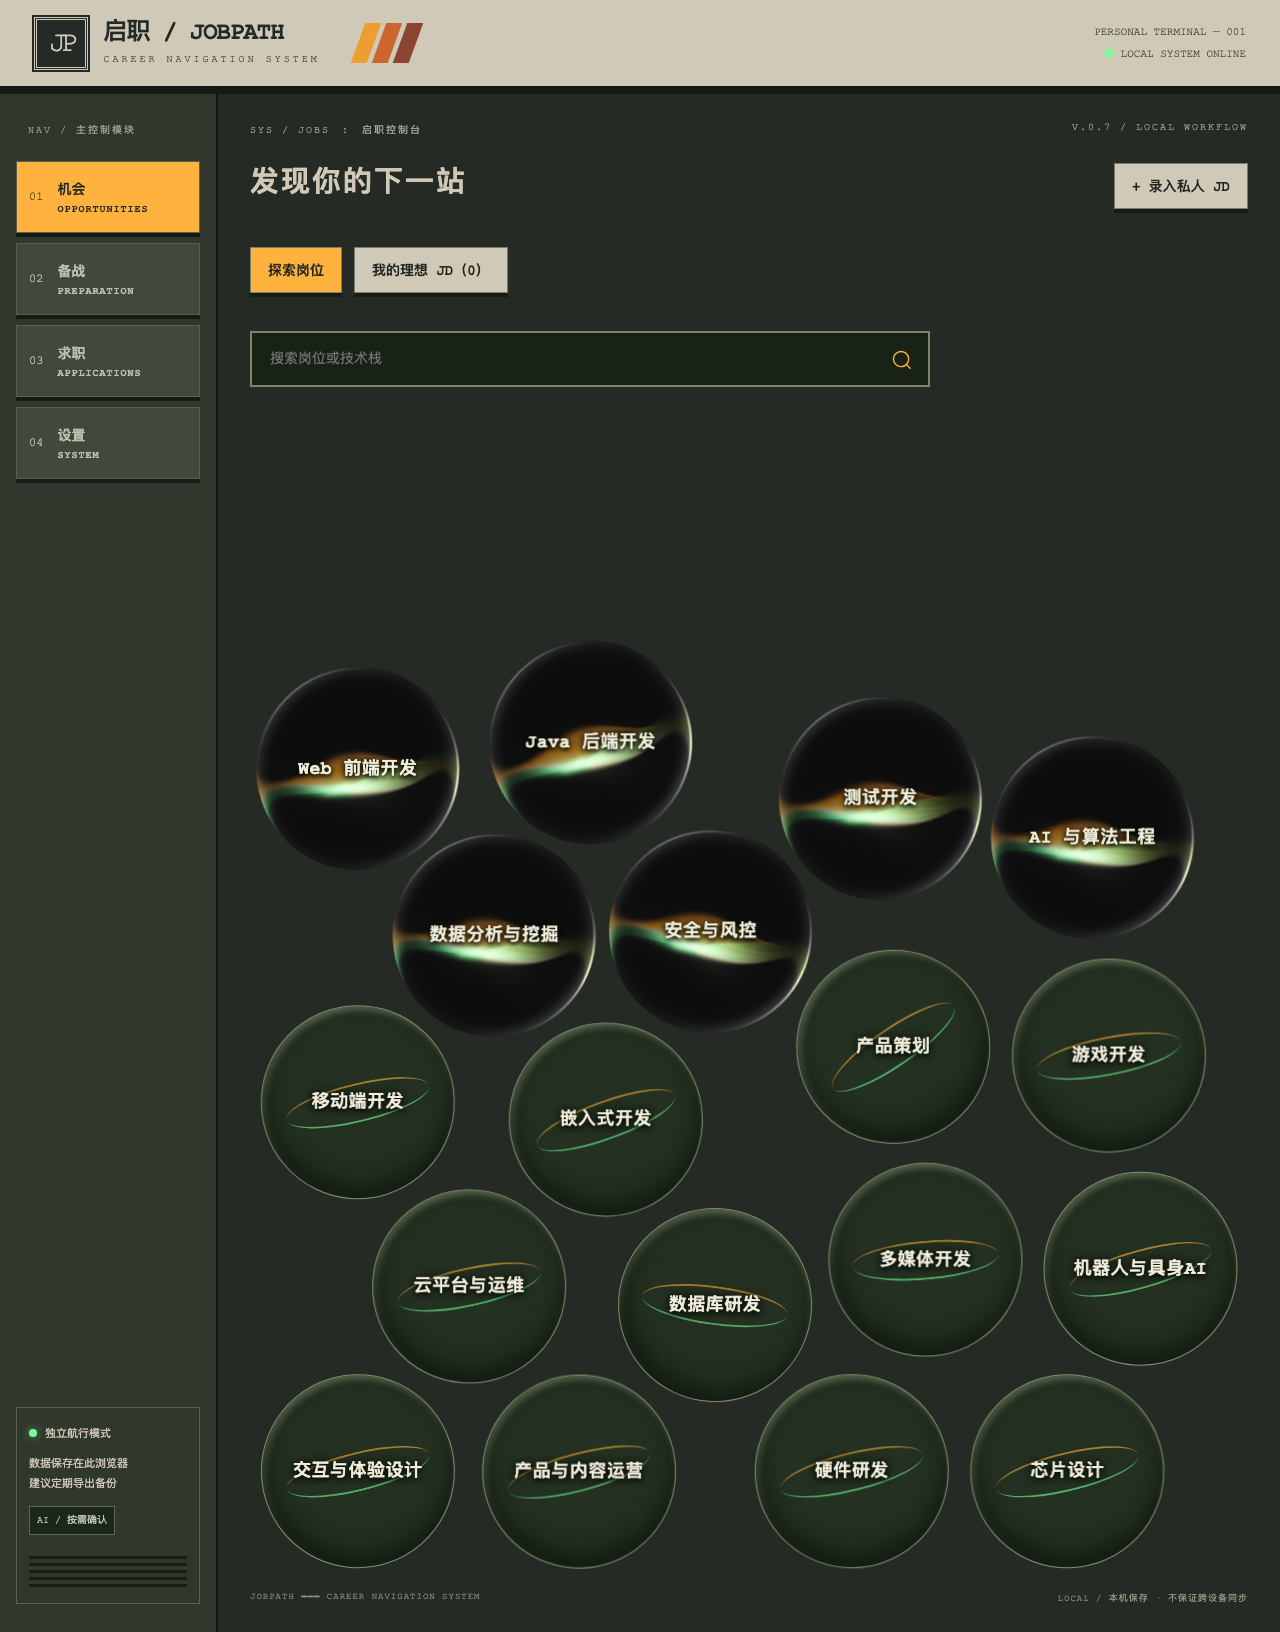
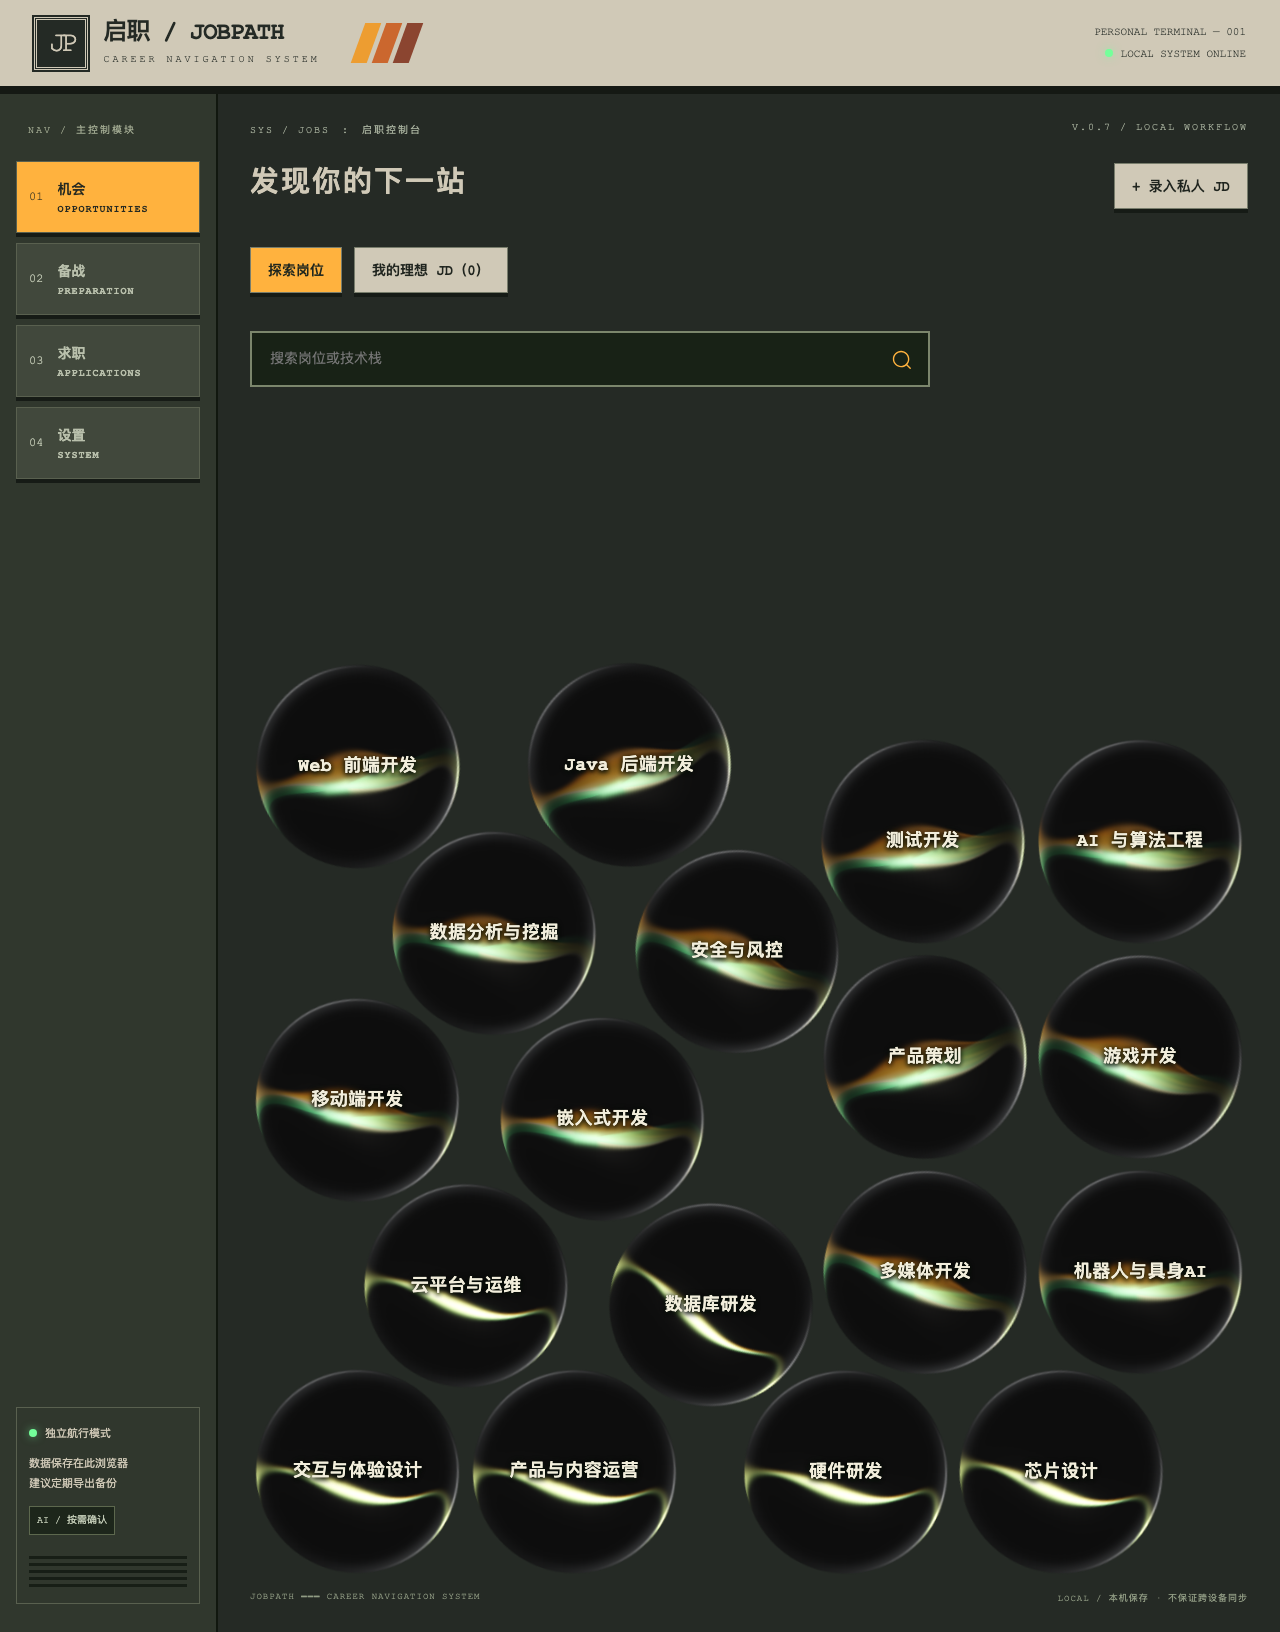
Unify all category sphere visuals with a shared Strands renderer

Changed region(s): [[0.1875, 0.375, 0.9688, 0.9688], [0.2188, 0.4375, 0.3438, 0.5]]

diff --git a/src/strands-still.js b/src/strands-still.js
@@ -1,0 +1,2 @@
+// Static frame captured from the same Strands renderer for reduced-motion and WebGL fallback.
[1 lines of base64/hex data omitted]

diff --git a/src/app.js b/src/app.js
@@ -92,7 +92,7 @@ function bindOpportunities(){
  $('#category-search').oninput=()=>{const matches=searchCategories($('#category-search').value);document.querySelectorAll('[data-category]').forEach(el=>el.hidden=!matches.some(c=>c.id===el.dataset.category));$('#category-count').textContent=`${matches.length} 个岗位分类`;$('#category-empty').hidden=matches.length>0;};
  document.querySelectorAll('[data-category-open]').forEach(b=>b.onclick=()=>openCategory(b.dataset.categoryOpen));if(jobsView==='categories')mountCrystal();if(jobsView==='list'&&activeCategory)openCategory(activeCategory);if(lastSavedJob){const el=document.getElementById('saved-'+lastSavedJob);el?.focus({preventScroll:true});el?.scrollIntoView({block:'center'});lastSavedJob='';}
 }
-async function mountCrystal(){const hosts=[...document.querySelectorAll('[data-crystal-host]')],generation=++crystalGeneration;if(jobsView!=='categories')return;crystalCleanup();crystalCleanup=()=>{};try{const module=await import('/public/visuals/strands.js');if(generation!==crystalGeneration||jobsView!=='categories')return;const motionCleanup=module.bindBubbleField(document.querySelector('.bubble-field'));const mounted=new Map();const observer=new IntersectionObserver(entries=>{for(const entry of entries){const host=entry.target;if(entry.isIntersecting&&!mounted.has(host)&&mounted.size<12){mounted.set(host,module.mount(host));}else if(!entry.isIntersecting&&mounted.has(host)){mounted.get(host)();mounted.delete(host);}}});hosts.forEach(h=>observer.observe(h));crystalCleanup=()=>{motionCleanup();observer.disconnect();mounted.forEach(fn=>fn());mounted.clear()}}catch{}}
+async function mountCrystal(){const hosts=[...document.querySelectorAll('[data-crystal-host]')],generation=++crystalGeneration;if(jobsView!=='categories')return;crystalCleanup();crystalCleanup=()=>{};try{const module=await import('/public/visuals/strands.js');if(generation!==crystalGeneration||jobsView!=='categories')return;const motionCleanup=module.bindBubbleField(document.querySelector('.bubble-field'));const visualCleanup=module.mountField(hosts);crystalCleanup=()=>{motionCleanup();visualCleanup()}}catch{}}
 
 function openCategory(id){const category=categories.find(c=>c.id===id);if(!category)return;activeCategory=id;jobsView='list';crystalGeneration++;crystalCleanup();crystalCleanup=()=>{};$('#category-view').hidden=true;$('#saved-jd-view').hidden=true;document.querySelectorAll('[data-job-view]').forEach(b=>b.setAttribute('aria-pressed','false'));const box=$('#category-jobs-view');box.hidden=false;box.innerHTML=`<button id="back-categories">← 返回岗位分类</button><h2 tabindex="-1">${category.title} · 公司招聘信息</h2><section class="category-detail"><p>${category.description}</p><h3>技术与能力方向</h3><p>${category.focus.join(' / ')}</p><p>${category.keywords.join(' · ')}</p>${skills[id]?`<button data-detail-direction="${id}">${state.direction===id?'当前方向':'选择此备战方向'} →</button>`:''}</section><p class="recruit-sync">后台每日 09:00（北京时间）更新；官网可能限制采集。<span id="sync-state">${recruitmentSync?`最近任务：${esc(recruitmentSync.day)} · ${{complete:'已完成',partial:'部分来源待复核',failed:'更新失败，保留旧记录',running:'更新中'}[recruitmentSync.status]||'待复核'}`:'尚无后台定时任务记录，显示已核验快照'}</span></p><p>优先展示校招和实习；投递入口可用不代表一定符合资格，请以原站受理结果为准。</p><div class="filters"><label>搜索本分类招聘<input id="recruit-search" type="search" placeholder="公司、岗位、城市"></label><label>招聘类型<select id="recruit-type"><option value="early">校招与实习</option><option value="">全部</option><option>校招</option><option>实习</option><option>社招</option></select></label><label>招聘状态<select id="recruit-status"><option value="">可投或待核验</option><option value="open">官网可投</option><option value="unknown">待核验</option><option value="closed">已截止</option><option value="all">全部状态</option></select></label></div><div id="recruit-results"></div>`;
 const show=()=>{const q=$('#recruit-search').value.toLowerCase(),type=$('#recruit-type').value,status=$('#recruit-status').value,rows=jobsForCategory(id).filter(r=>[r.title,r.company,r.city].join(' ').toLowerCase().includes(q)&&(!type||(type==='early'?['校招','实习'].includes(r.intent):r.intent===type))&&(status==='all'||(status?(r.hiringStatus||'unknown')===status:r.hiringStatus!=='closed'))).sort((a,b)=>Number(b.hiringStatus==='open')-Number(a.hiringStatus==='open'));$('#recruit-results').innerHTML=rows.map(r=>{const company=companies[r.company];return panel('OFFICIAL SOURCE / 招聘记录',`<span class="recruit-status">${({open:'官网可投',closed:'已截止',unknown:'待核验'})[r.hiringStatus||'unknown']}</span><h3>${esc(r.company)} · ${esc(r.title)}</h3><p>${esc(r.city)} · ${esc(r.intent)}</p><h4>岗位介绍</h4><p>${esc(r.summary)}</p><h4>资格与技术要求</h4><p>${esc(r.experience||'请核对官网')}</p><p>${esc(r.eligibility)}</p><div class="company-info"><h4>招聘单位</h4><p>${esc(company?.intro||r.company+'官方招聘记录，单位介绍请查看原站。')}</p>${company?`<a href="${esc(company.url)}" target="_blank" rel="noopener noreferrer">${esc(r.company)}招聘官网 ↗</a>`:''}</div><p class="muted">核验时间：${esc(r.checkedAt)} · ${esc(r.verification)}<br>官网更新：${esc(r.sourceUpdated)} · 薪资与截止日期：以原站为准</p><a href="${esc(safeUrl(r.source))}" target="_blank" rel="noopener noreferrer">查看官方招聘详情 ↗</a> <button data-save-recruit="${esc(r.id)}">${state.jobs.some(j=>j.publicId===r.id)||(state.recruitmentSaves||[]).some(j=>j.id===r.id)?'已保存到理想 JD':'保存到我的理想 JD'}</button>`)}).join('')||'<p class="empty">没有匹配的招聘记录。可切换“全部”类型或放宽状态筛选；不会把社招伪装成应届生岗位。</p>';document.querySelectorAll('[data-save-recruit]').forEach(b=>b.onclick=()=>saveRecruitment(b.dataset.saveRecruit))};$('#recruit-search').oninput=$('#recruit-type').onchange=$('#recruit-status').onchange=show;$('#back-categories').onclick=()=>{jobsView='categories';render();document.querySelector(`[data-category-open="${id}"]`)?.focus()};show();const direction=box.querySelector('[data-detail-direction]');if(direction)direction.onclick=async()=>{state.direction=id;state.target='';state.targetId=null;await save();jobsView='categories';page='prep';render()};box.querySelector('h2').focus();box.scrollIntoView({block:'start'});}

diff --git a/components/strands/mount.jsx b/components/strands/mount.jsx
@@ -1,10 +1,25 @@
-import React from 'react';import {createRoot} from 'react-dom/client';import Strands from './Strands.jsx';
+import React from 'react';
+import {createRoot} from 'react-dom/client';
+import Strands from './Strands.jsx';
+import {strandsStill} from '../../src/strands-still.js';
 export {bindBubbleField} from '../../src/bubble-field.js';
-const fallback='<div class="static-orb"></div>';
-class Boundary extends React.Component{state={failed:false};static getDerivedStateFromError(){return {failed:true}}render(){return this.state.failed?<div className="static-orb"/>:this.props.children}}
-export function mount(host){
- const media=matchMedia('(prefers-reduced-motion: reduce)');if(media.matches){host.dataset.visualState='static';host.innerHTML=fallback;return ()=>{}}const probe=document.createElement('canvas');let gl;try{gl=probe.getContext('webgl2')}catch{}if(!gl){host.dataset.visualState='unavailable';host.innerHTML=fallback;return ()=>{}}gl.getExtension('WEBGL_lose_context')?.loseContext();
- if(!document.querySelector('[data-strands-css]')){const link=document.createElement('link');link.rel='stylesheet';link.href='/public/visuals/strands.css';link.dataset.strandsCss='true';document.head.append(link)}
- const root=createRoot(host);host.dataset.visualState='mounted';root.render(<Boundary><Strands colors={['#b6793e','#FFB23E','#eee5bc','#74FF9A','#315640']} glass glassSize={1.12} count={3} energy={0.5} intensity={0.65} glow={0.18} dispersion={0.12} speed={0.5} interactive clickPulse={false} intro={false} maxDevicePixelRatio={1}/></Boundary>);
- let stopped=false;const stop=()=>{if(!stopped){stopped=true;root.unmount()}host.innerHTML=fallback;host.dataset.visualState='static'};const change=()=>{if(media.matches)stop()};media.addEventListener('change',change);return ()=>{media.removeEventListener('change',change);stop()};
+
+// A single GPU renderer feeds every sphere, avoiding browser WebGL context limits.
+export function mountField(hosts){
+ const media=matchMedia('(prefers-reduced-motion: reduce)');
+ let root=null,source=null,observer=null,disposed=false;
+ const contexts=new Map(),visible=new Set();
+ const still=host=>{host.replaceChildren();const img=new Image();img.src=strandsStill;img.alt='';img.className='strands-still';host.append(img);host.dataset.visualState='static'};
+ const stop=()=>{observer?.disconnect();observer=null;root?.unmount();root=null;source?.remove();source=null;contexts.clear();visible.clear()};
+ const start=()=>{
+  stop();hosts.forEach(still);if(disposed||media.matches||!hosts.length)return;
+  if(!document.querySelector('[data-strands-css]')){const link=document.createElement('link');link.rel='stylesheet';link.href='/public/visuals/strands.css';link.dataset.strandsCss='true';document.head.append(link)}
+  // Kept in the viewport for the renderer's visibility lifecycle, but never displayed.
+  source=document.createElement('div');source.className='strands-shared-source';source.setAttribute('aria-hidden','true');document.body.append(source);
+  hosts.forEach(host=>{const canvas=document.createElement('canvas');canvas.width=canvas.height=256;canvas.className='strands-copy';canvas.setAttribute('aria-hidden','true');const ctx=canvas.getContext('2d');if(ctx){contexts.set(host,{canvas,ctx,ready:false});visible.add(host)}});
+  observer=new IntersectionObserver(entries=>{for(const e of entries){if(e.isIntersecting)visible.add(e.target);else visible.delete(e.target)}});hosts.forEach(h=>observer.observe(h));
+  const frame=canvas=>{for(const [host,item] of contexts){if(!visible.has(host)&&item.ready)continue;item.ctx.clearRect(0,0,256,256);item.ctx.drawImage(canvas,0,0,256,256);if(!item.ready){host.replaceChildren(item.canvas);item.ready=true;host.dataset.visualState='shared'}}};
+  root=createRoot(source);root.render(<Strands colors={['#b6793e','#FFB23E','#eee5bc','#74FF9A','#315640']} glass glassSize={1.12} count={3} energy={0.5} intensity={0.65} glow={0.18} dispersion={0.12} speed={0.5} interactive={false} clickPulse={false} intro={false} maxDevicePixelRatio={1} onFrame={frame}/>);
+ };
+ media.addEventListener('change',start);start();return ()=>{disposed=true;media.removeEventListener('change',start);stop();hosts.forEach(still)};
 }

diff --git a/style.css b/style.css
@@ -17,3 +17,6 @@
 .bubble-field{display:flex;flex-wrap:wrap;justify-content:center;gap:12px;border:0;background:transparent;padding:0;margin-top:12px;min-height:440px;overflow:hidden;position:relative;--ball-size:210px}.bubble-field article,.bubble-field article:nth-child(even){padding:0;width:var(--ball-size);height:var(--ball-size);flex:0 0 var(--ball-size)}.bubble-field.physics-active{display:block}.bubble-field.physics-active article{position:absolute;left:0;top:0;margin:0}.bubble-field .category-orb{width:100%;height:100%;min-height:0;border-radius:50%;padding:0;touch-action:pan-y;cursor:grab}.bubble-field .category-orb:active{cursor:grabbing}.bubble-field [data-crystal-host]{position:absolute;inset:0;height:100%;width:100%;transform:rotate(var(--roll,0rad));pointer-events:none}.bubble-field .orb-label{position:absolute;inset:0;display:flex;align-items:center;justify-content:center;text-align:center;margin:0;padding:25%;font-size:19px;font-weight:700;line-height:1.45;letter-spacing:.5px;color:#f2eedc;text-shadow:0 2px 4px #080f08,0 0 9px #080f08;pointer-events:none}.bubble-field .static-orb{position:absolute;inset:5%;width:auto;height:auto;margin:0;background:#243021;border:1px solid #849171;box-shadow:inset 0 -12px 24px #101a11,inset 3px 3px 6px #657459}.bubble-field .static-orb:after{content:'';position:absolute;inset:40% 12%;border-radius:50%;border-top:2px solid var(--amber);border-bottom:2px solid var(--green);transform:rotate(-18deg);opacity:.6}
 @media(max-width:650px){.bubble-field{--ball-size:150px}.bubble-field .category-orb{min-height:0}.bubble-field [data-crystal-host]{height:100%}.bubble-field .orb-label{font-size:15px;padding:24%;}.bubble-field .static-orb{width:auto;height:auto;margin:0}}
 .bubble-field .orb-label{padding:18%;font-size:18px;word-break:normal;overflow-wrap:normal}@media(max-width:650px){.bubble-field .orb-label{font-size:14px;padding:17%}}
+/* All category balls share the same Strands rendering, including static fallback. */
+.strands-copy,.strands-still{display:block;width:100%;height:100%;object-fit:contain}
+.strands-shared-source{position:fixed;left:0;top:0;width:256px;height:256px;opacity:0;pointer-events:none;z-index:-1}

diff --git a/components/strands/Strands.jsx b/components/strands/Strands.jsx
@@ -347,6 +347,7 @@ export default function Strands({
   intro = true,
   lightMode = false,
   maxDevicePixelRatio = 2,
+  onFrame,
   className = '',
   style
 }) {
@@ -379,7 +380,8 @@ export default function Strands({
     clickPulse,
     intro,
     lightMode,
-    maxDevicePixelRatio
+    maxDevicePixelRatio,
+    onFrame
   };
 
   useEffect(() => {
@@ -540,6 +542,7 @@ export default function Strands({
       gl.uniform1f(loc.uOpacity, p.opacity);
       gl.clear(gl.COLOR_BUFFER_BIT);
       gl.drawArrays(gl.TRIANGLES, 0, 3);
+      propsRef.current.onFrame?.(canvas);
     };
 
     const frame = now => {

diff --git a/components/strands/README.md b/components/strands/README.md
@@ -7,6 +7,6 @@ Matter.js 0.20.0 (MIT) drives circle gravity, contact friction, restitution, rot
 - https://brm.io/matter-js/docs/classes/Bodies.html
 - https://brm.io/matter-js/docs/classes/Body.html
 
-DOM buttons follow physical bodies; the Strands visual rotates while in-ball text stays upright. A drag suppresses the subsequent click; keyboard focus pins a ball for stable activation. Search rebuilds bodies, resize recreates bounds, hidden tabs/offscreen fields pause, and disposal clears physics and WebGL resources. Reduced-motion and fields narrower than 420px use a static layout. Visible WebGL instances are capped at 12; other circles remain clickable with a static visual.
+DOM buttons follow physical bodies; the Strands visual rotates while in-ball text stays upright. A drag suppresses the subsequent click; keyboard focus pins a ball for stable activation. Search rebuilds bodies, resize recreates bounds, hidden tabs/offscreen fields pause, and disposal clears physics and WebGL resources. Reduced-motion and fields narrower than 420px use a static layout. One shared WebGL renderer feeds all 18 sphere canvases. Offscreen spheres retain the same rendered appearance; reduced motion and unavailable WebGL use a captured frame of the same Strands effect. This avoids browser context limits and eliminates the former mismatched green fallback.
 
 Palette remains cream/amber/green. The field has no visible outer frame. Build with `npm run build`; generated bundle is `public/visuals/strands.js`.

diff --git a/docs/tjj/Strands分类球验收.md b/docs/tjj/Strands分类球验收.md
@@ -41,3 +41,9 @@ Matter.js 提供二维圆形刚体、重力、碰撞、摩擦和鼠标推动/拖
 - 专项覆盖：球内文字、无外框、重力/边界/碰撞、鼠标推动、拖动防误点、键盘进入详情、筛选重建、减弱动态、原有业务流程及窄屏无横向溢出。
 - 人工检查 1280px 桌面与 390px 窄屏截图；截图见同目录 `Strands桌面预览.png`、`Strands窄屏预览.png`。
 - 本地 `/api/health` 返回 `aiEnabled: false`。main 保持 `c540c717d8cae2dd195b16e7ed394975843c20c4`。
+
+## 同日修复：统一全部球体外观
+
+用户反馈最后一排偏浅，原因是此前 12 个 WebGL 实例上限让其余球体使用不同的 CSS 降级样式。现改为一个共享 Strands 渲染器向全部 18 个球体画布绘制，取消数量导致的视觉分组；屏幕外保留同款渲染帧，减弱动态和不支持 WebGL 时也使用同款静态帧。物理交互仍独立作用于每个球体。
+
+构建通过，Chromium / Firefox / WebKit 的 9 项专项测试通过，新增验证全部 18 个球体画布、仅一个 WebGL 源、深色球面像素、减弱动态切换及离页资源释放。另复查 1280px / 390px 截图。该次修复未重跑全部业务回归；上文 84 项为上一提交的完整结果。真实 AI 关闭。
